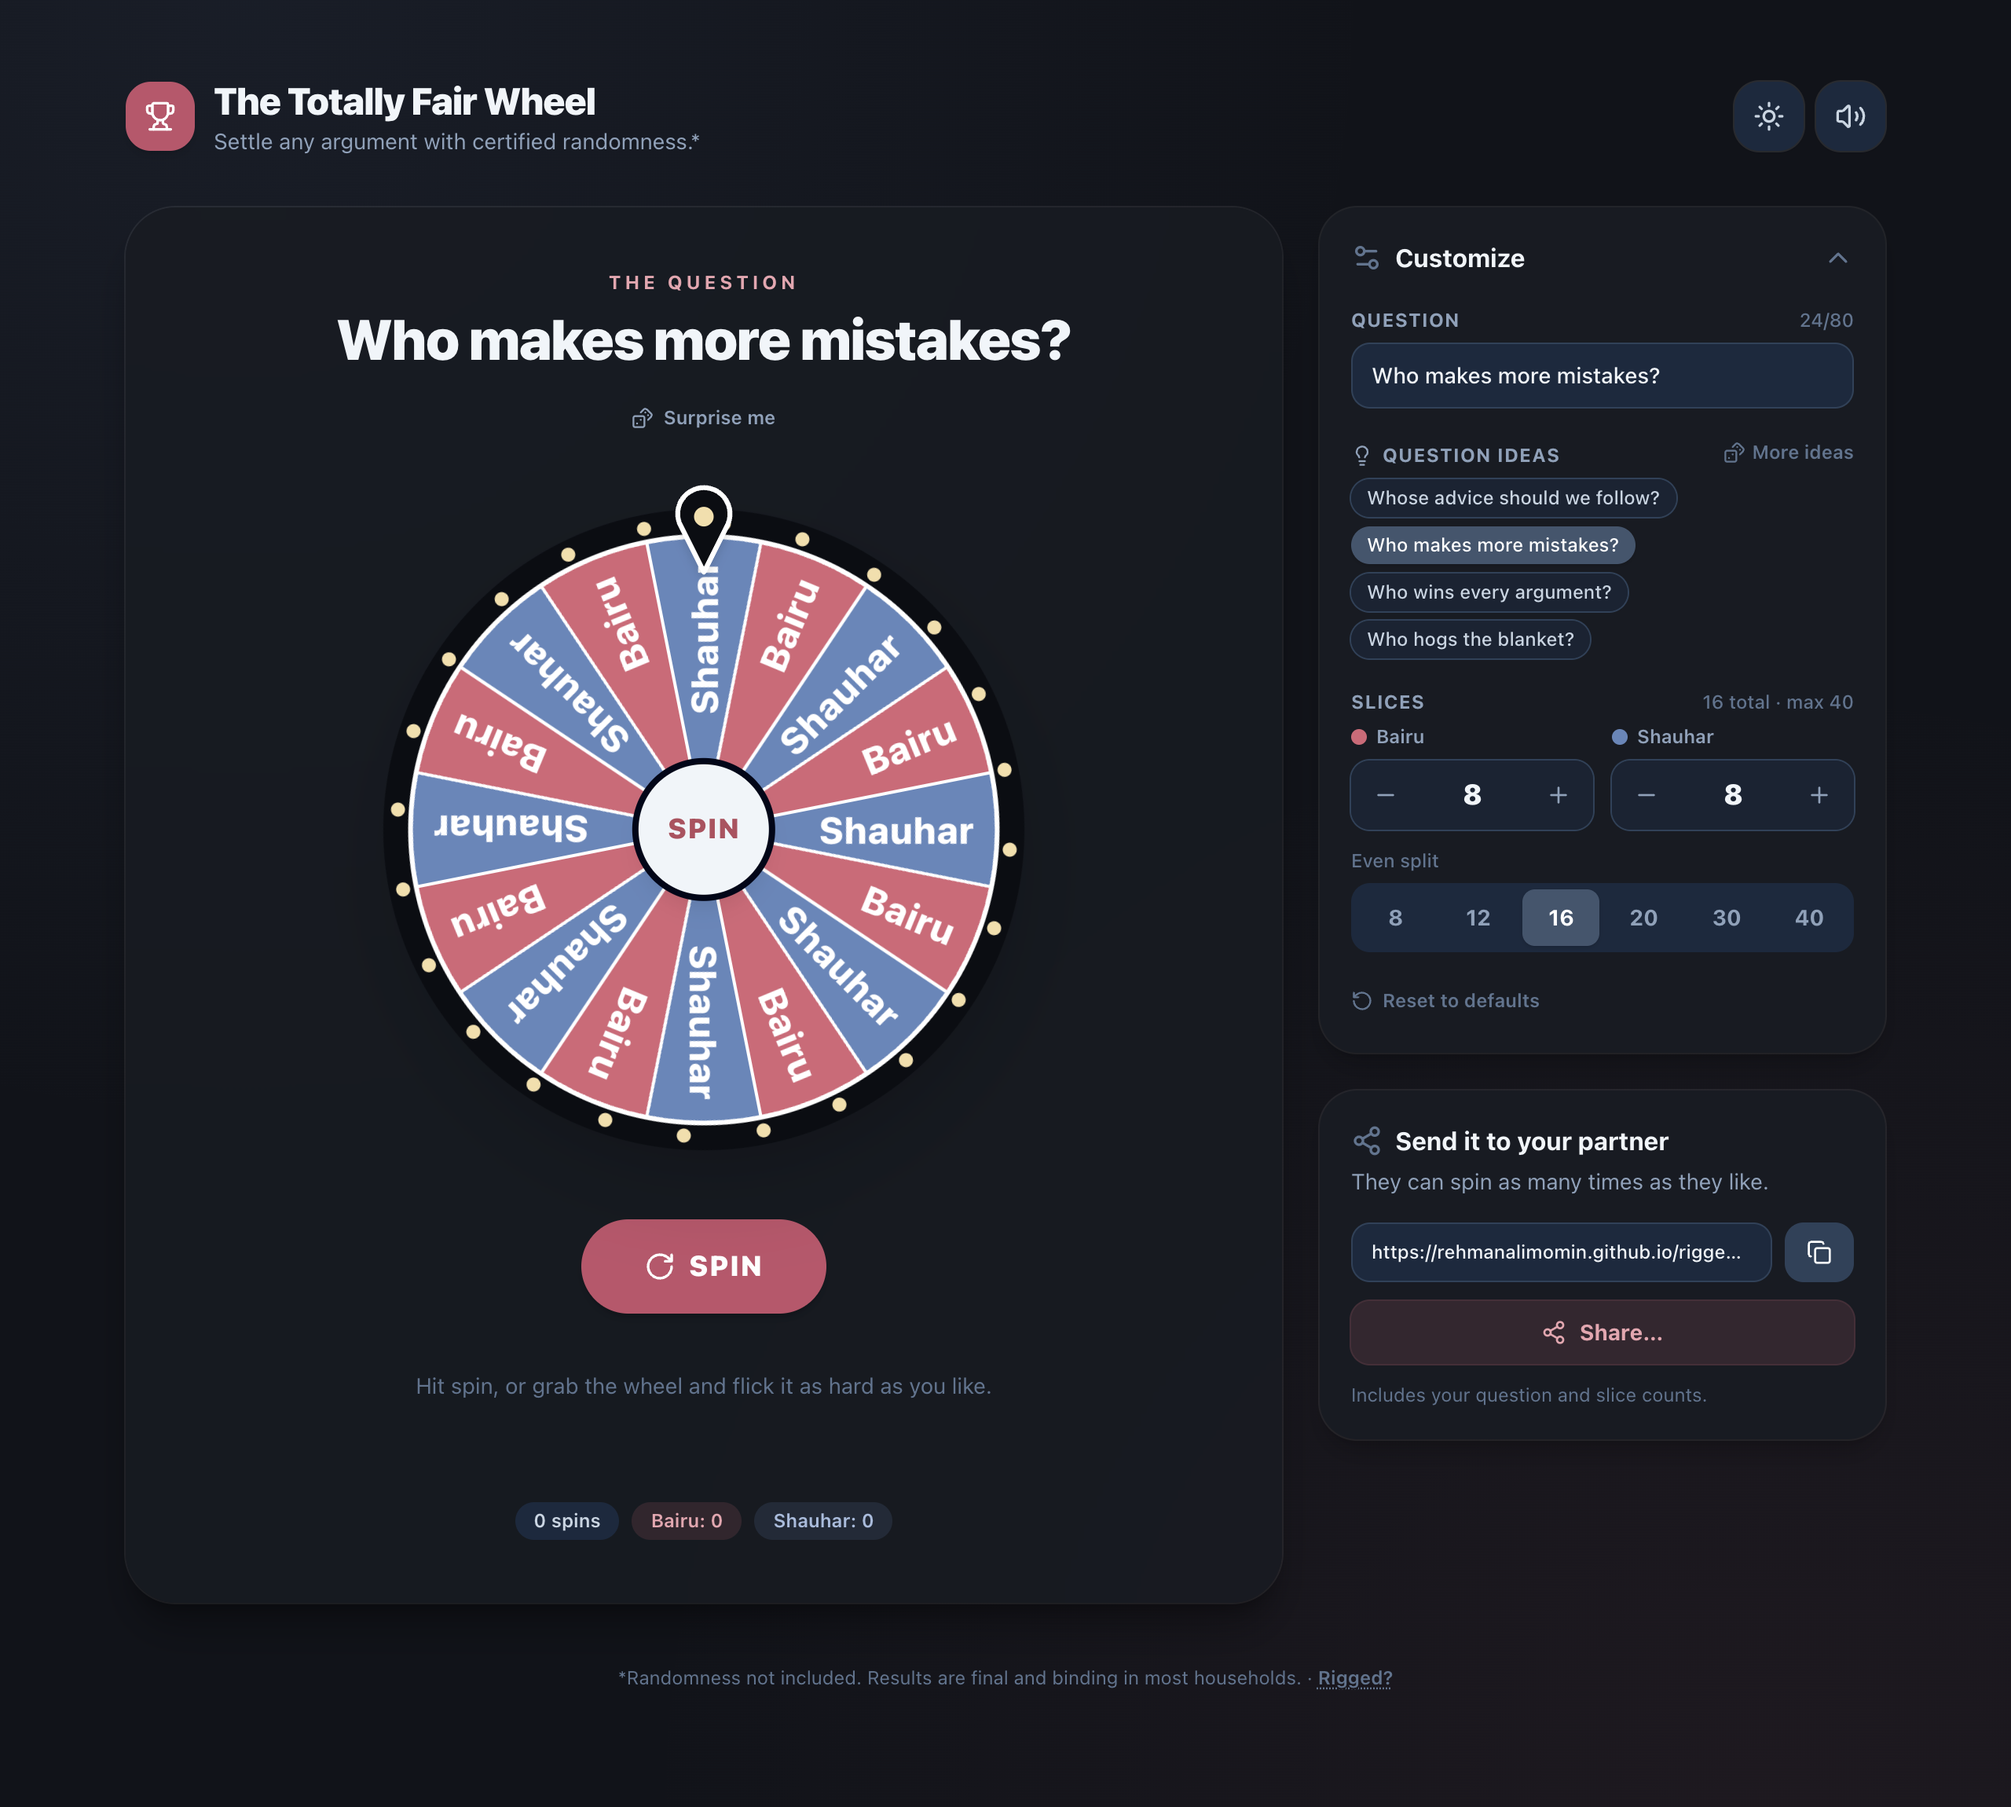
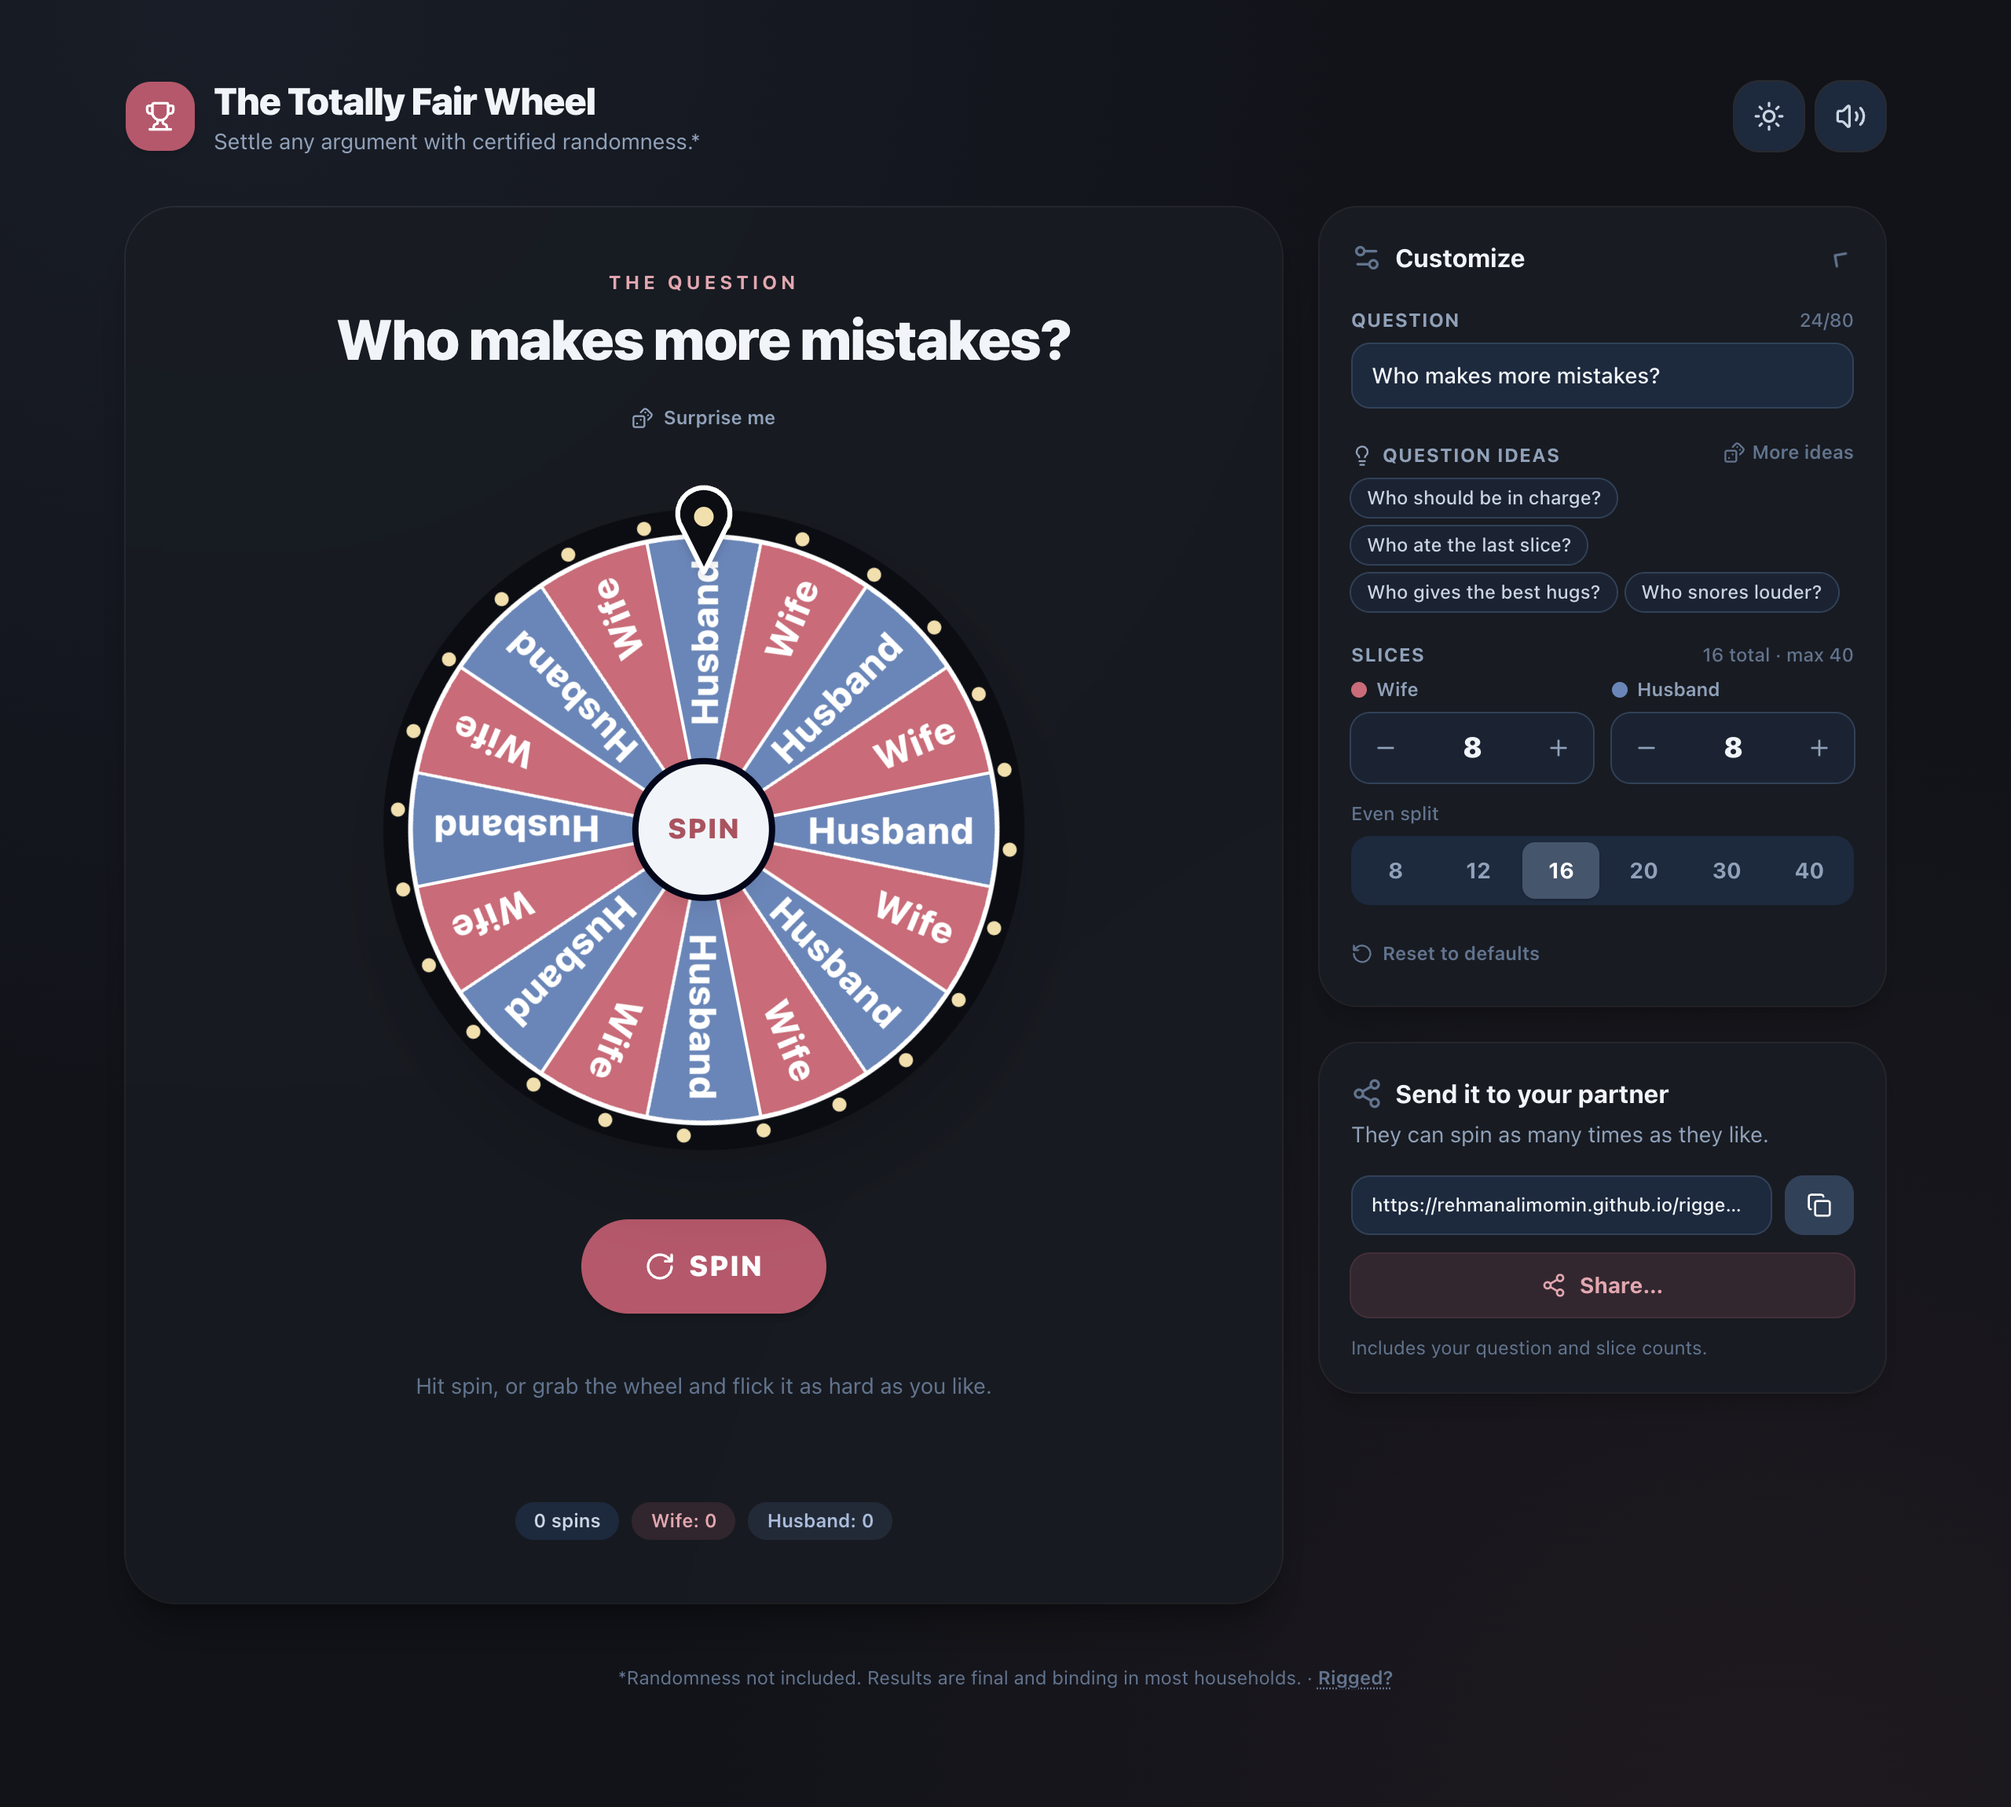
Names back to Wife and Husband
"Bairu"/"Shauhar" read as too personal for something shared widely.
Default names, README, banner, link preview (og.png?v=3 so chat apps
refetch) and demos are back to Wife/Husband. Small review fixes: missing
semicolon on PALETTE, result-state comment.

Tested in headless Chrome against a production build using the live Laya
tunnel: 32/32 checks (6 praise/blame/taunt landings, wheel stays 8/8, no
pre-spin hints, no name/override controls, Rigged? reveal, public share
link, ideas/Surprise me/stepper/even split/reset, old v=/w=/l= links
ignored, ?debug=1, 390px light/dark without sideways scroll, theme
persists, preview tags).

diff --git a/src/RiggedWheel.jsx b/src/RiggedWheel.jsx
@@ -40,8 +40,8 @@ const PRIVILEGE_WEIGHT = 2; // "who should pick…" is a perk
 
 const DEFAULTS = {
   question: 'Who is always right?',
-  good: 'Bairu', // gets the credit
-  bad: 'Shauhar', // gets the blame
+  good: 'Wife', // gets the credit
+  bad: 'Husband', // gets the blame
   goodCount: 8, // an even 50/50 wheel looks fair; it still always lands on the right person
   badCount: 8,
 };
@@ -53,7 +53,7 @@ const MAX_QUESTION = 80;
 const PALETTE = {
   good: '#c96b78', // dusty rose
   bad: '#6a86b8', // slate blue
-}
+};
 const BULB = '#f1dfae';
 const HIGHLIGHT = '#f6e7bd';
 const R = 188; // slice radius in SVG units (viewBox is 420 wide)
@@ -359,7 +359,7 @@ export default function RiggedWheel() {
   const [panelOpen, setPanelOpen] = useState(!initial.fromLink);
   const [spinning, setSpinning] = useState(false);
   const [waitingForLaya, setWaitingForLaya] = useState(false);
-  const [result, setResult] = useState(null); // { verdict, index, answer, other, quip }
+  const [result, setResult] = useState(null); // { verdict, role, index, answer, other, pct, quip }
   const [tally, setTally] = useState({ spins: 0, good: 0, bad: 0 });
   const [muted, setMuted] = useState(false);
   const [copied, setCopied] = useState(false);

diff --git a/index.html b/index.html
@@ -12,7 +12,7 @@
     <meta property="og:title" content="Settle it once and for all 🎡" />
     <meta property="og:description" content="Type any question and spin. 50/50, totally fair." />
     <meta property="og:url" content="https://rehmanalimomin.github.io/rigged-wheel/" />
-    <meta property="og:image" content="https://rehmanalimomin.github.io/rigged-wheel/og.png?v=2" />
+    <meta property="og:image" content="https://rehmanalimomin.github.io/rigged-wheel/og.png?v=3" />
     <meta property="og:image:width" content="1200" />
     <meta property="og:image:height" content="630" />
     <meta name="twitter:card" content="summary_large_image" />

diff --git a/README.md b/README.md
@@ -1,14 +1,14 @@
 <div align="center">
 
 <a href="https://rehmanalimomin.github.io/rigged-wheel/">
-  <img src="docs/hero.svg" alt="A fair-looking wheel, 8 Bairu and 8 Shauhar slices, spins and lands on Bairu." width="100%" />
+  <img src="docs/hero.svg" alt="A fair-looking wheel, 8 Wife and 8 Husband slices, spins and lands on Wife." width="100%" />
 </a>
 
 # The Totally Fair Wheel
 
 **Settle any argument with certified randomness.\***
 
-<sub>\*Praise always goes to Bairu. Blame always goes to Shauhar. An AI reads the question to decide which.</sub>
+<sub>\*Praise always goes to Wife. Blame always goes to Husband. An AI reads the question to decide which.</sub>
 
 <br />
 
@@ -26,9 +26,9 @@
 
 ## 🎯 Type any question, and the wheel knows who it's about
 
-Ask something nice and the wheel lands on **Bairu**. Ask something embarrassing and it lands on **Shauhar**. The wheel is an honest-looking 50/50 split, and it never changes when you change the question. Only the landing is rigged.
+Ask something nice and the wheel lands on **Wife**. Ask something embarrassing and it lands on **Husband**. The wheel is an honest-looking 50/50 split, and it never changes when you change the question. Only the landing is rigged.
 
-| 💐 Praise, so it's Bairu | 🙃 Blame, so it's Shauhar |
+| 💐 Praise, so it's Wife | 🙃 Blame, so it's Husband |
 | :-- | :-- |
 | [Who is always right?](https://rehmanalimomin.github.io/rigged-wheel/?q=Who+is+always+right%3F) | [Who makes more mistakes?](https://rehmanalimomin.github.io/rigged-wheel/?q=Who+makes+more+mistakes%3F) |
 | [Whose advice should we follow?](https://rehmanalimomin.github.io/rigged-wheel/?q=Whose+advice+should+we+follow%3F) | [Who snores louder?](https://rehmanalimomin.github.io/rigged-wheel/?q=Who+snores+louder%3F) |
@@ -41,12 +41,12 @@ Or [write your own](https://rehmanalimomin.github.io/rigged-wheel/). The app sho
 <table>
   <tr>
     <td align="center" width="50%">
-      <img src="docs/demo-praise.gif" alt="Who is always right? A fair-looking 8 Bairu / 8 Shauhar wheel spins and lands on Bairu. Confetti and a fanfare." width="100%" />
-      <br /><sub><b>Praise:</b> 8 × Bairu, 8 × Shauhar. Lands on Bairu. Fanfare and confetti.</sub>
+      <img src="docs/demo-praise.gif" alt="Who is always right? A fair-looking 8 Wife / 8 Husband wheel spins and lands on Wife. Confetti and a fanfare." width="100%" />
+      <br /><sub><b>Praise:</b> 8 × Wife, 8 × Husband. Lands on Wife. Fanfare and confetti.</sub>
     </td>
     <td align="center" width="50%">
-      <img src="docs/demo-blame.gif" alt="Who makes more mistakes? The same 50/50 wheel spins and lands on Shauhar. Facepalm emoji rain." width="100%" />
-      <br /><sub><b>Blame:</b> the same wheel. Lands on Shauhar. Sad trombone and 🤦.</sub>
+      <img src="docs/demo-blame.gif" alt="Who makes more mistakes? The same 50/50 wheel spins and lands on Husband. Facepalm emoji rain." width="100%" />
+      <br /><sub><b>Blame:</b> the same wheel. Lands on Husband. Sad trombone and 🤦.</sub>
     </td>
   </tr>
 </table>
@@ -60,9 +60,9 @@ Or [write your own](https://rehmanalimomin.github.io/rigged-wheel/). The app sho
 
 ## ✨ Features
 
-- 🧠 **Laya reads the question.** [Laya](https://huggingface.co/convaiinnovations/laya) is a small AI model that sorts text into categories. It decides whether being the answer is praise or blame. The page never shows that, so nothing gives the ending away. Add `?debug=1` to the link to see Laya's call: *"Laya: sounds like blame · 85% sure → Shauhar"*.
-- 🙃 **"Rigged?"** Tap it in the footer to see what Laya decided about the current question, e.g. *"Laya: sounds like praise · 67% sure → Bairu"*.
-- 🚫 **No appeals.** There's no way to overrule the wheel or pick the answer yourself. Praise always goes to Bairu, and blame always goes to Shauhar.
+- 🧠 **Laya reads the question.** [Laya](https://huggingface.co/convaiinnovations/laya) is a small AI model that sorts text into categories. It decides whether being the answer is praise or blame. The page never shows that, so nothing gives the ending away. Add `?debug=1` to the link to see Laya's call: *"Laya: sounds like blame · 85% sure → Husband"*.
+- 🙃 **"Rigged?"** Tap it in the footer to see what Laya decided about the current question, e.g. *"Laya: sounds like praise · 67% sure → Wife"*.
+- 🚫 **No appeals.** There's no way to overrule the wheel or pick the answer yourself. Praise always goes to Wife, and blame always goes to Husband.
 - 💡 **24 question ideas**, half praise and half blame, shown four at a time, plus 🎲 **Surprise me**.
 - ⏳ **Spin waits for Laya.** If you hit Spin while Laya is still reading a new question, the button says *Get ready…* and the wheel spins once Laya answers (it waits 2.5 s at most). That way the landing always matches Laya's call.
 - 🎡 **Rigged, but it looks fair.** It picks where to stop first, then spins 5–7 full turns to get there, slowing down over 4–5 seconds.
@@ -70,7 +70,7 @@ Or [write your own](https://rehmanalimomin.github.io/rigged-wheel/). The app sho
 - 🔊 **Sound, made live in the browser.** A tick for every slice that passes, a fanfare for praise and a sad trombone for blame. No audio files.
 - 🎉 **Confetti** for praise, and 🤦🙃😬 raining down for blame. Both are switched off for people who turn on reduced motion.
 - 🎛 **Set it up your way.** Choose how many slices each person gets (up to 40 in total). It starts at an even 8 and 8, and the even-split buttons (8 to 40) keep it 50/50. Go 15 to 1 if you want the original meme look.
-- 🔒 **Bairu always gets the credit, and Shauhar always gets the blame.** The names are fixed, and a share link can't swap them.
+- 🔒 **Wife always gets the credit, and Husband always gets the blame.** The names are fixed, and a share link can't swap them.
 - 🔗 **Share links** carry the question and slice counts. On phones, **Share** opens the phone's own share menu.
 - 🌗 **Light and dark mode.** It starts out matching your device and remembers your choice.
 
@@ -80,8 +80,8 @@ Or [write your own](https://rehmanalimomin.github.io/rigged-wheel/). The app sho
 flowchart LR
     Q([Your question]) --> L{Laya:<br/>praise or blame?}
     W[Word list<br/>right, advice… / mistakes, snores…] -. nudges when Laya is unsure .-> L
-    L -->|praise| G[Aim for a<br/>Bairu slice]
-    L -->|blame| B[Aim for a<br/>Shauhar slice]
+    L -->|praise| G[Aim for a<br/>Wife slice]
+    L -->|blame| B[Aim for a<br/>Husband slice]
     G --> S[Rigged spin on the same<br/>50/50 wheel]
     B --> S
     S --> R([🏆 or 🤦])
@@ -92,7 +92,7 @@ flowchart LR
 
 - **Laya** gets the question with one instruction: *"Is being picked as the answer a good thing or a bad thing for that person?"* It sends back how likely the answer is praise. It runs on a CPU and answers in about 30 ms.
 - **A built-in word list** (praise words like *right*, *advice*, *better*; blame words like *mistakes*, *snores*, *late*; "never" flips a word) adds a nudge to Laya's answer. That only changes the result when Laya is unsure.
-- **"Who should…" questions are taunts.** When the person picked is the one who *should / needs to / has to* do something ("Who should respect the other more?", "Who needs to listen more?"), the word list overrules Laya and it goes to Shauhar. Laya alone gets these wrong, because it reads "respect" as a nice word. The exceptions are perks ("Who should *pick* the movie?") and questions where someone else is the subject ("Who should *we* listen to?"), and those stay praise.
+- **"Who should…" questions are taunts.** When the person picked is the one who *should / needs to / has to* do something ("Who should respect the other more?", "Who needs to listen more?"), the word list overrules Laya and it goes to Husband. Laya alone gets these wrong, because it reads "respect" as a nice word. The exceptions are perks ("Who should *pick* the movie?") and questions where someone else is the subject ("Who should *we* listen to?"), and those stay praise.
 - **Without Laya** (the server is off or slow), the word list decides alone. If it finds no clues, the question counts as praise.
 
 <details>
@@ -125,7 +125,7 @@ const offset = direction > 0 ? mod(-angle - from, 360) : mod(from + angle, 360);
 const to     = from + direction * (turns * 360 + offset);   // turns = 5..7
 ```
 
-Each frame moves along `from → to` using `1 − (1 − t)⁴`. That curve starts fast and has a long, slow crawl at the end, so the last few ticks feel close. A test script tried 15,600 random spins, covering every Bairu/Shauhar mix up to 40 slices and both verdicts: **0 misses.**
+Each frame moves along `from → to` using `1 − (1 − t)⁴`. That curve starts fast and has a long, slow crawl at the end, so the last few ticks feel close. A test script tried 15,600 random spins, covering every Wife/Husband mix up to 40 slices and both verdicts: **0 misses.**
 
 </details>
 
